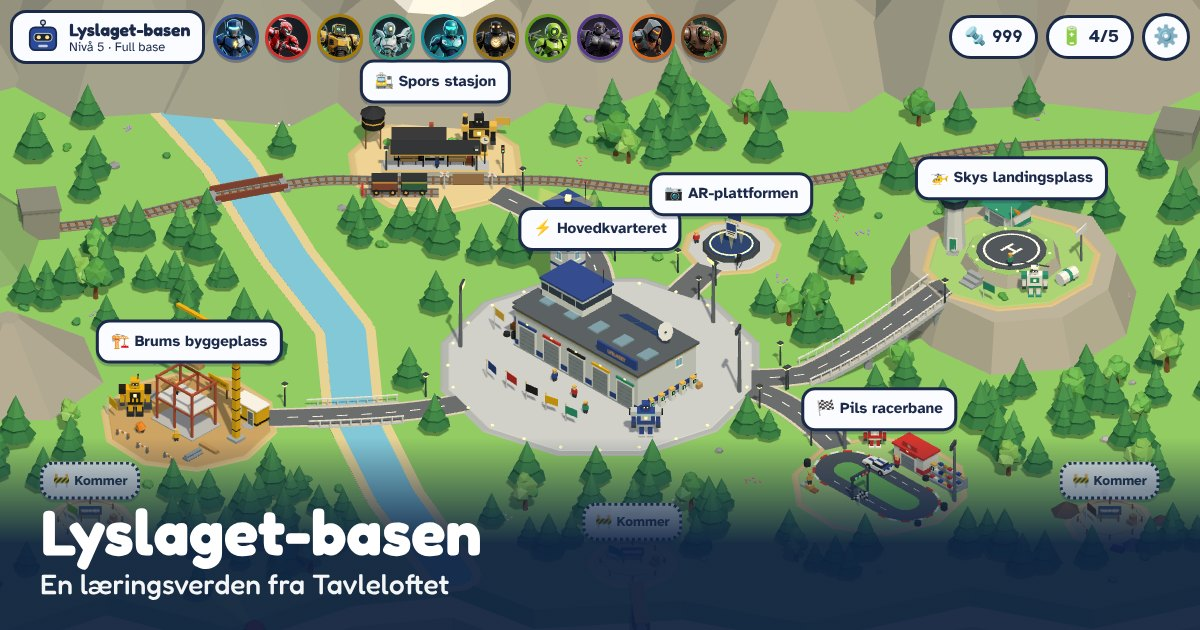
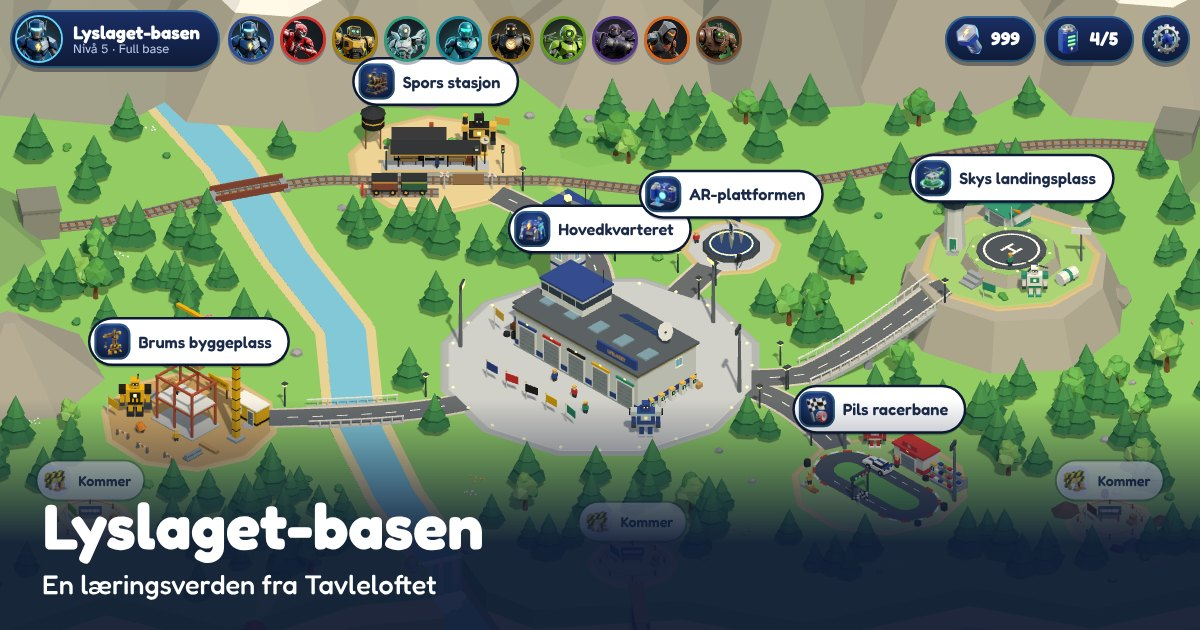
Lyslaget-basen: nye menyer, Higgsfield-ikoner, ekte robotbilder og elv som renner ut i sjøen
- Menyene er bygd om: mørk blå topp, store oppgavekort, tydelig bygg ut-knapp
- 17 ikoner i basen/ikon erstatter emoji i menyer, merkelapper og tellere
- Volt og de andre robotene vises med ekte bilder
- Utrykning vises som låst kort i hovedkvarteret til Pil har flyttet inn
- Elva ender i en foss ned i en vik i kysten
- Nytt delingsbilde (del.jpg)

Claude-Session: https://claude.ai/code/session_014BdYta3zDrASdwr9HgxSn1

diff --git a/lyslaget/basen.html b/lyslaget/basen.html
@@ -141,6 +141,79 @@ header .luft{flex:1}
 @keyframes opp{from{opacity:0;transform:translateY(8px)}20%{opacity:1}to{opacity:0;transform:translateY(-6px)}}
 #laster{position:fixed;left:50%;top:50%;transform:translate(-50%,-50%);font-family:Fredoka,sans-serif;font-size:1.3rem;z-index:1}
 @media (prefers-reduced-motion:no-preference){.dialog{animation:inn .18s ease-out}@keyframes inn{from{transform:translateY(12px);opacity:0}}}
+/* ===== Nytt utseende på menyene (november 2026): mørk blå «robotflate», ekte bilder og egne ikoner ===== */
+:root{--natt:#0e1a36;--natt2:#1b2f66;--lys:#5fd4ff;--flate:#f1f4fb}
+.ikon{width:1.3em;height:1.3em;object-fit:contain;vertical-align:-.3em;flex:none}
+span.ikon.tegn{width:auto;height:auto;vertical-align:0}
+.flis{display:grid;place-items:center;flex:none;width:62px;height:62px;border-radius:18px;background:radial-gradient(circle at 50% 30%,#2a4a94,#0e1a36 78%);box-shadow:inset 0 0 0 2px rgba(95,212,255,.28)}
+.flis .ikon{width:80%;height:80%;vertical-align:0}
+.flis span.ikon.tegn{width:auto;height:auto;font-size:1.9rem;line-height:1}
+.flis.liten{width:36px;height:36px;border-radius:11px}
+.flis.liten span.ikon.tegn{font-size:1.15rem}
+.flis.stor{width:72px;height:72px;border-radius:20px}
+.pris{display:inline-flex;align-items:center;gap:3px;font-family:Fredoka,sans-serif;font-weight:700;white-space:nowrap;vertical-align:middle}
+.pris .ikon{width:1.35em;height:1.35em;vertical-align:0}
+/* Topplinja */
+.skilt,.brikke,#gir{background:linear-gradient(180deg,var(--natt2),var(--natt));color:#fff;border:0;box-shadow:0 4px 0 rgba(8,16,38,.4),inset 0 0 0 2px rgba(95,212,255,.32)}
+.skilt{border-radius:999px;padding:5px 20px 5px 5px;gap:10px}
+.skilt img.volt{width:48px;height:48px;border-radius:50%;object-fit:cover;border:2px solid var(--lys);display:block;flex:none}
+.skilt .navn{font-size:1.15rem}
+.skilt .under{color:#b9c8ea}
+.brikke{display:inline-flex;align-items:center;gap:6px;padding:6px 16px 6px 8px;font-family:Fredoka,sans-serif;font-size:1.15rem;min-height:46px}
+.brikke .ikon{width:32px;height:32px;vertical-align:0}
+#gir{display:grid;place-items:center;height:48px;font-size:1.3rem}
+#gir .ikon{width:32px;height:32px;vertical-align:0}
+/* Merkelappene i verdenen */
+#tags button{display:inline-flex;align-items:center;gap:8px;background:#fff;border:0;border-radius:999px;padding:4px 16px 4px 4px;font-family:Fredoka,sans-serif;font-weight:600;font-size:1.02rem;box-shadow:0 4px 0 rgba(8,16,38,.3),0 0 0 2.5px var(--natt)}
+#tags button.last{background:linear-gradient(180deg,var(--natt2),var(--natt));color:#fff;border-style:none;box-shadow:0 4px 0 rgba(8,16,38,.3),inset 0 0 0 2px rgba(95,212,255,.32)}
+#tags button.last .flis{background:none;box-shadow:none}
+#tags button.kommer{background:rgba(255,255,255,.82);border-style:none;box-shadow:0 0 0 2px rgba(14,26,54,.35);padding:3px 12px 3px 3px;font-size:.9rem}
+#tags button.kommer .flis{background:#dfe5f2;box-shadow:none;width:30px;height:30px}
+@media(max-width:600px){#tags:not(.liste) button{padding:4px;font-size:1rem}#tags:not(.liste) button.last{padding:4px 12px 4px 4px}}
+#tags.liste button{justify-content:flex-start}
+/* Panelet */
+#panel{background:var(--flate);border:0;padding:0;box-shadow:0 0 0 3px var(--natt),0 -8px 30px rgba(8,16,38,.35)}
+@media(min-width:800px){#panel{border-bottom:0;width:430px;box-shadow:0 0 0 3px var(--natt),0 12px 34px rgba(8,16,38,.4)}}
+.phode{position:sticky;top:0;z-index:2;display:flex;gap:12px;align-items:center;padding:12px 12px 12px 14px;background:linear-gradient(135deg,var(--natt2),var(--natt));color:#fff}
+.phode h2{margin:0;color:#fff;font-size:1.5rem}
+.phode .under{display:block;font-size:.92rem;color:#c3d0ee;margin-top:2px}
+.phode .midt{flex:1;min-width:0}
+.phode .x{flex:none;width:48px;height:48px;min-height:48px;border-radius:50%;padding:0;background:rgba(255,255,255,.16);font-size:1.35rem}
+.pkropp{padding:14px 14px 22px}
+.pkropp .del{border-top:0;padding-top:0;margin-top:20px}
+.pkropp .del>h3{font-size:.86rem;letter-spacing:.09em;text-transform:uppercase;color:var(--dus);margin:0 0 8px 4px}
+.stasjoner{display:grid;gap:10px}
+.stasjon,.rkort{display:flex;align-items:center;gap:12px;width:100%;text-align:left;background:#fff;color:var(--ink);border:0;border-radius:20px;padding:9px 12px 9px 9px;min-height:80px;font-weight:400;box-shadow:0 4px 0 #c9d3e8,0 0 0 2px #dbe2f1;transition:transform .08s}
+button.stasjon:active,button.rkort:active{transform:translateY(3px);box-shadow:0 1px 0 #c9d3e8,0 0 0 2px #dbe2f1}
+.stasjon .tekst,.rkort .tekst{flex:1;min-width:0;display:block}
+.stasjon .navn{display:block;font-family:Fredoka,sans-serif;font-weight:600;font-size:1.22rem;line-height:1.15}
+.stasjon small{display:block;font-weight:400;color:var(--dus);font-size:.88rem;line-height:1.25;margin-top:1px}
+.stasjon small.status{margin-top:4px;color:#1d5c33;font-weight:700}
+.stasjon small.status.las{color:var(--dus);display:flex;align-items:center;gap:4px}
+.stasjon small.status.las .ikon{width:1.5em;height:1.5em}
+.gaa{flex:none;font-family:Fredoka,sans-serif;font-size:2rem;line-height:1;color:var(--hoved);padding:0 2px 4px}
+.stasjon.last{background:#e7ebf5;box-shadow:0 0 0 2px #d5dcec;min-height:72px}
+.stasjon.last .flis{opacity:.75;filter:saturate(.5)}
+.rkort{border-left:0;margin-bottom:0;box-shadow:0 4px 0 #c9d3e8,0 0 0 2px #dbe2f1,inset 7px 0 0 var(--c);padding-left:16px}
+.rkort img,.rkort svg{width:66px;height:66px;border-radius:50%;object-fit:cover;border:3px solid var(--c);background:#1b2230;flex:none}
+.rkort strong{display:block;font-size:1.3rem;line-height:1.1}
+.rkort .blirtil{display:block;font-size:.95rem}
+.rkort .liten{display:block;margin-top:2px}
+.bygg{background:#fff;border-radius:20px;padding:14px;box-shadow:0 0 0 2px #dbe2f1}
+.bygg p:last-child{margin-bottom:0}
+.bygg .neste{background:var(--flate);border-radius:12px;padding:8px 12px;font-size:.95rem}
+.kjop{display:flex;justify-content:center;align-items:center;gap:6px;width:100%;min-height:58px;font-family:Fredoka,sans-serif;font-size:1.2rem;font-weight:600;background:var(--gull);color:#3a2a00;box-shadow:0 4px 0 #b98a17}
+.kjop:active{transform:translateY(3px);box-shadow:0 1px 0 #b98a17}
+.kjop:disabled{background:#cfd5e2;color:#5b6680;box-shadow:0 4px 0 #b3bbcc}
+.kjop .pris{background:rgba(58,42,0,.14);border-radius:999px;padding:2px 12px 2px 6px;margin-left:6px}
+.kjop:disabled .pris .ikon{filter:grayscale(1);opacity:.7}
+.mangler{margin:10px 0 0;text-align:center}
+.bred{display:flex;justify-content:center;align-items:center;gap:8px;width:100%;min-height:54px;background:#fff;box-shadow:0 4px 0 #c9d3e8,0 0 0 2px #dbe2f1}
+.bred .ikon{width:34px;height:34px;vertical-align:0}
+.pkropp .linje{background:#fff;border:0;border-radius:14px;padding:6px 10px 6px 6px;margin-bottom:6px;box-shadow:0 0 0 2px #dbe2f1}
+.nivaa i{width:22px;height:9px;border-radius:5px}
+.dialog .helt{display:block;width:calc(100% + 44px);max-width:none;margin:-22px -22px 16px;aspect-ratio:900/520;object-fit:cover;object-position:50% 30%;border-radius:22px 22px 0 0}
+.sidetopp .brikke{min-height:44px}
 </style>
 </head>
 <body>
@@ -229,16 +302,16 @@ var TRINN = {
    Uten noen av delene vises en prøveoppgave. */
 var STASJONER = {
   hk:   [{id:'benk',  ik:'🔧', navn:'Arbeidsbenken', fag:'Verkstedet: ukas jobber i matte', side:'verksted.html'},
-         {id:'plan',  ik:'💛', navn:'Vennekroken',   fag:'Venner og følelser', oppg:'venner'},
+         {id:'plan',  ik:'💛', b:'venner', navn:'Vennekroken',   fag:'Venner og følelser', oppg:'venner'},
          {id:'kikk',  ik:'🔭', navn:'Kikkerten',     fag:'Jeg ser: skriv fem setninger', oppg:'jegser'}],
   pil:  [{id:'start', ik:'🚦', navn:'Startstreken',  fag:'Utrykning: matte, lesing og skriving', side:'utrykning.html'},
          {id:'depot', ik:'🛞', navn:'Depotet',       fag:'Fag 2 (f.eks. gangetabellen)'}],
   spor: [{id:'rute',  ik:'🕒', navn:'Rutetavla',     fag:'Lær klokka sammen med Spor', side:'klokka.html'},
          {id:'luke',  ik:'🎫', navn:'Billettluka',   fag:'Fag 2 (f.eks. penger)'}],
-  brum: [{id:'pause', ik:'💛', navn:'Pausebrakka',   fag:'Venner og følelser', oppg:'venner'},
+  brum: [{id:'pause', ik:'💛', b:'venner', navn:'Pausebrakka',   fag:'Venner og følelser', oppg:'venner'},
          {id:'tegn',  ik:'📐', navn:'Tegnebordet',   fag:'Fag 1 (f.eks. måling og former)'},
          {id:'lager', ik:'🧱', navn:'Materiallageret', fag:'Fag 2 (f.eks. pluss og minus)'}],
-  sky:  [{id:'utkikk',ik:'🔭', navn:'Utkikken',      fag:'Jeg ser: skriv fem setninger', oppg:'jegser'},
+  sky:  [{id:'utkikk',ik:'🔭', b:'kikk', navn:'Utkikken',      fag:'Jeg ser: skriv fem setninger', oppg:'jegser'},
          {id:'vaer',  ik:'🌦', navn:'Værstasjonen',  fag:'Fag 2 (f.eks. tabeller og tall)'}]
 };
 /* Stasjoner uten «side» og uten «oppg» har bare en prøveoppgave. De er skjult for eleven.
@@ -337,10 +410,17 @@ function fjes(id,str){
     '<rect x="8" y="14" width="44" height="38" rx="9" fill="'+r.c1+'" stroke="'+i+'" stroke-width="3"/><rect x="15" y="24" width="30" height="13" rx="5" fill="#1b2430" stroke="'+r.c2+'" stroke-width="1.5"/>'+
     '<circle cx="23" cy="30.5" r="3.4" fill="#ffe27a"/><circle cx="37" cy="30.5" r="3.4" fill="#ffe27a"/><rect x="22" y="43" width="16" height="4" rx="2" fill="'+r.c2+'"/></svg>';
 }
+/* Ikonene er laget i Higgsfield og ligger i basen/ikon/ (ett bilde per ikon, gjennomsiktig bakgrunn).
+   Mangler et bilde, vises tegnet i stedet – så nye stasjoner virker før ikonet er laget. */
+function ikon(navn, tegn){return '<img class="ikon" src="basen/ikon/'+navn+'.webp" alt="" data-tegn="'+tegn+'" onerror="ikonFeil(this)">'}
+function ikonFeil(el){var s = document.createElement('span'); s.className = 'ikon tegn'; s.setAttribute('aria-hidden','true'); s.textContent = el.getAttribute('data-tegn'); el.replaceWith(s)}
+function pris(p){return '<span class="pris">'+ikon('skrue','🔩')+p+'</span>'}
 function nivaa(n,maks){var s='<span class="nivaa" role="img" aria-label="Trinn '+n+' av '+maks+'">';for(var i=0;i<maks;i++)s+='<i class="'+(i<n?'pa':'')+'"></i>';return s+'</span>'}
-function robotKort(id){
+function robotKort(id){   // ekte bilde av roboten. Trykk på kortet for å se hele robotkortet.
   var r = ROBOTER[id];
-  return '<div class="rkort" style="--c:'+(r.c1==='#ffffff'?r.c2:r.c1)+'">'+fjes(id)+'<div><strong>'+r.navn+'</strong> blir til '+r.blir+'<br><span class="liten">«'+esc(r.sier)+'» Liker '+esc(r.liker)+'.</span></div></div>';
+  return '<button type="button" class="rkort" data-kort="'+id+'" style="--c:'+r.ring+'" aria-label="'+r.navn+'. Vis robotkortet.">'+
+    '<img src="media/ansikt/'+id+'.jpg" alt="" onerror="this.outerHTML=fjes(\''+id+'\',66)">'+
+    '<span class="tekst"><strong>'+r.navn+'</strong><span class="blirtil">blir til '+r.blir+'</span><span class="liten">«'+esc(r.sier)+'»</span></span><span class="gaa" aria-hidden="true">›</span></button>';
 }
 function ansikt(id){
   var r = ROBOTER[id];
@@ -353,7 +433,7 @@ function visKort(id){
   var forrige = ROBOTER[REKKE[(aktivtKort+n-1)%n]], neste = ROBOTER[REKKE[(aktivtKort+1)%n]];
   var prikker = function(a, tittel){var h = '<span class="prikker" role="img" aria-label="'+tittel+': '+a+' av 5">'; for(var i=1;i<=5;i++) h += '<i class="'+(i<=a?'p':'')+'"></i>'; return h+'</span>'};
   var sted = OMRADER.filter(function(o){return o.robot===id})[0], hit = '';
-  if(S && sted && !sted.kommer) hit = '<button class="hit" data-omr="'+sted.id+'">'+sted.ik+' Gå til '+sted.navn+'</button>';
+  if(S && sted && !sted.kommer) hit = '<button class="hit" data-omr="'+sted.id+'">Gå til '+sted.navn+'</button>';
   else if(sted && sted.kommer) hit = '<p class="liten" style="margin-top:12px">'+sted.navn+' kommer senere.</p>';
   else if(r.lag==='Rust-gjengen') hit = '<p class="liten" style="margin-top:12px">Rust-gjengen kan flytte inn på skrotplassen senere.</p>';
   dlg.innerHTML = '<div class="kort" style="--k:'+r.k+';--kt:'+r.kt+';--kp:'+r.kp+'">'+
@@ -374,7 +454,7 @@ function lukkKort(){var dlg = document.getElementById('kortdlg'); if(dlg.open) d
 var sideTimer = null;
 function apneSide(url, tittel, kamera){
   var l = document.getElementById('side');
-  l.innerHTML = '<div class="sidetopp"><button data-a="lukkside">← Tilbake til basen</button><strong>'+esc(tittel)+'</strong><span class="luft"></span><span class="brikke" id="sideskruer">🔩 '+S.skruer+'</span></div>'+
+  l.innerHTML = '<div class="sidetopp"><button data-a="lukkside">← Tilbake til basen</button><strong>'+esc(tittel)+'</strong><span class="luft"></span><span class="brikke" id="sideskruer">'+ikon('skrue','🔩')+S.skruer+'</span></div>'+
     '<iframe src="'+url+'" title="'+esc(tittel)+'"'+(kamera?' allow="camera; microphone; gyroscope; accelerometer"':'')+'></iframe>';
   l.className = 'apen';
   var f = l.querySelector('iframe'), forste = true;
@@ -384,87 +464,102 @@ function apneSide(url, tittel, kamera){
 }
 function oppdaterSide(){
   var fikk = sjekkJobber(), el = document.getElementById('sideskruer'); if(!fikk || !el) return;
-  el.innerHTML = '🔩 '+S.skruer+'<b>+'+fikk+'</b>'; el.classList.add('hopp'); setTimeout(function(){el.classList.remove('hopp')}, 500);
+  el.innerHTML = ikon('skrue','🔩')+S.skruer+'<b>+'+fikk+'</b>'; el.classList.add('hopp'); setTimeout(function(){el.classList.remove('hopp')}, 500);
 }
 function lukkSide(){clearInterval(sideTimer); sideTimer = null; sjekkJobber(); var l = document.getElementById('side'); l.className = ''; l.innerHTML = ''; tegn()}
 
+/* Ett kort per oppgavestasjon. last = 1: stasjonen ligger hos en robot som ikke har flyttet inn (kortet tar deg dit).
+   last = 2: samme, men vist inne på området selv (bare til å se på). */
+function stasjonKort(o, st, last){
+  var flis = '<span class="flis">'+ikon(st.b||st.id, st.ik)+'</span>', tekst = '<span class="navn">'+st.navn+'</span><small>'+st.fag+'</small>';
+  if(last){
+    var inn = flis+'<span class="tekst">'+tekst+'<small class="status las">'+ikon('las','🔒')+'Åpner når '+ROBOTER[o.robot].navn+' flytter inn</small></span>';
+    return last===2 ? '<div class="stasjon last">'+inn+'</div>' : '<button class="stasjon last" data-omr="'+o.id+'">'+inn+'<span class="gaa" aria-hidden="true">›</span></button>';
+  }
+  var under = st.oppg && window.LysOppgaver ? LysOppgaver.under(st) : '';
+  return '<button class="stasjon" data-stasjon="'+o.id+':'+st.id+'">'+flis+'<span class="tekst">'+tekst+(under?'<small class="status">'+esc(under)+'</small>':'')+'</span><span class="gaa" aria-hidden="true">›</span></button>';
+}
 function stasjonsKnapper(o){
   var liste = synlige(o.id), grunn = OPPSETT.skruerPerOppgave + bonus(o.id);
   if(!liste.length) return '<p class="liten">Oppgavene her kommer senere.</p>';
-  return '<div class="grid">'+liste.map(function(st){
-    var under = st.oppg && window.LysOppgaver ? LysOppgaver.under(st) : '';
-    return '<button class="stasjon" data-stasjon="'+o.id+':'+st.id+'"><span class="ik">'+st.ik+'</span>'+st.navn+'<small>'+st.fag+'</small>'+(under?'<small class="status">'+esc(under)+'</small>':'')+'</button>'}).join('')+'</div>'+
-    '<p class="liten" style="margin-top:8px">Hver riktig oppgave her gir 🔩 '+grunn+' skruer.'+
-      (liste.some(function(st){return st.oppg==='jegser'}) ? ' Et godkjent «Jeg ser»-bilde gir 🔩 '+(15+bonus(o.id))+'.' : '')+'</p>';
+  return '<div class="stasjoner">'+liste.map(function(st){return stasjonKort(o, st)}).join('')+'</div>'+
+    '<p class="liten" style="margin:10px 4px 0">Hver riktig oppgave her gir '+pris(grunn)+' skruer.'+
+      (liste.some(function(st){return st.oppg==='jegser'}) ? ' Et godkjent «Jeg ser»-bilde gir '+pris(15+bonus(o.id))+'.' : '')+'</p>';
+}
+function andreStasjoner(){   // vises i hovedkvarteret: oppgaver som venter hos roboter som ikke har flyttet inn ennå
+  var h = robotomr().filter(function(a){return S.omr[a.id] < 2}).map(function(a){return synlige(a.id).map(function(st){return stasjonKort(a, st, 1)}).join('')}).join('');
+  return h ? '<div class="del"><h3>Flere oppgaver hos robotene</h3><div class="stasjoner">'+h+'</div></div>' : '';
 }
 function formKnapp(o){
   var r = ROBOTER[o.robot];
-  return '<button class="sek" data-form="'+o.id+'">🔁 '+(S.form[o.id] ? 'Forvandle tilbake til robot' : 'Forvandle til '+r.blir)+'</button>';
+  return '<button class="sek bred" data-form="'+o.id+'">'+ikon('forvandle','🔁')+(S.form[o.id] ? 'Forvandle tilbake til robot' : 'Forvandle til '+r.blir)+'</button>';
 }
+function mangler(p){return S.skruer<p ? '<p class="liten mangler">Du mangler '+(p-S.skruer)+' skruer. Løs oppgaver for å tjene flere.</p>' : ''}
 
 /* ---------- Topplinje og merkelapper ---------- */
 function tegnTopp(){
-  document.getElementById('toppv').innerHTML = '<div class="skilt">'+fjes('volt',36)+
+  document.getElementById('toppv').innerHTML = '<div class="skilt"><img class="volt" src="media/ansikt/volt.jpg" alt="" onerror="this.outerHTML=fjes(\'volt\',40)">'+
     '<span class="navn">Lyslaget-basen<span class="under">Nivå '+S.hk+' · '+HK[S.hk-1].navn+'</span></span></div>';
-  document.getElementById('topph').innerHTML = '<span class="brikke" title="Skruer">🔩 '+S.skruer+'</span><span class="brikke" title="Ladeplasser i bruk">🔋 '+antallEid()+'/'+S.hk+'</span>'+
-    '<button id="gir" data-a="voksen" aria-label="Voksenmeny">⚙</button>';
+  document.getElementById('topph').innerHTML = '<span class="brikke" title="Skruer">'+ikon('skrue','🔩')+S.skruer+'</span><span class="brikke" title="Ladeplasser i bruk">'+ikon('lader','🔋')+antallEid()+'/'+S.hk+'</span>'+
+    '<button id="gir" data-a="voksen" aria-label="Voksenmeny">'+ikon('tannhjul','⚙')+'</button>';
 }
 function tegnTags(){
   document.getElementById('tags').innerHTML = OMRADER.map(function(o){
-    if(o.kommer) return '<button class="kommer" data-omr="'+o.id+'" aria-label="'+o.navn+', kommer senere">🚧<span class="t"> Kommer</span></button>';
-    return eier(o.id) ? '<button data-omr="'+o.id+'" aria-label="'+o.navn+'">'+o.ik+'<span class="t"> '+o.navn+'</span></button>'
-                      : '<button class="last" data-omr="'+o.id+'" aria-label="'+o.navn+', til salgs for '+PRIS.omr[0]+' skruer">🔒<span class="t"> Til salgs ·</span> 🔩'+PRIS.omr[0]+'</button>'}).join('');
+    if(o.kommer) return '<button class="kommer" data-omr="'+o.id+'" aria-label="'+o.navn+', kommer senere"><span class="flis liten">'+ikon('kommer','🚧')+'</span><span class="t">Kommer</span></button>';
+    return eier(o.id) ? '<button data-omr="'+o.id+'" aria-label="'+o.navn+'"><span class="flis liten">'+ikon(o.id,o.ik)+'</span><span class="t">'+o.navn+'</span></button>'
+                      : '<button class="last" data-omr="'+o.id+'" aria-label="'+o.navn+', til salgs for '+PRIS.omr[0]+' skruer"><span class="flis liten">'+ikon('las','🔒')+'</span><span class="t">Til salgs</span>'+pris(PRIS.omr[0])+'</button>'}).join('');
 }
 
-/* ---------- Panelet for hvert område ---------- */
+/* ---------- Panelet for hvert område ----------
+   Hver panel-funksjon gir [linja under navnet i toppfeltet, innholdet]. */
 function panelHK(o){
   var n = S.hk, p = PRIS.hk[n-1], h = robotKort('volt');
-  h += '<p><strong>Nivå '+n+' av 5: '+HK[n-1].navn+'.</strong> '+nivaa(n,5)+'<br><span class="liten">'+HK[n-1].hva+'</span></p>';
-  if(n<5) h += '<button data-hk="1"'+(S.skruer<p?' disabled':'')+'>Bygg ut til «'+HK[n].navn+'» 🔩'+p+'</button>'+
-    '<p class="liten" style="margin-top:8px">Du får: '+HK[n].hva+(S.skruer<p?' Du mangler '+(p-S.skruer)+' skruer.':'')+'</p>';
-  else h += '<span class="merke">Ferdig utbygd</span>';
-  h += '<div class="rad" style="margin-top:10px">'+formKnapp(o)+'</div>';
-  h += '<div class="del"><h3>Oppgaver</h3>'+stasjonsKnapper(o)+'</div>';
-  h += '<div class="del"><h3>Ladeplasser</h3><p class="liten">Hovedkvarteret har '+n+' '+(n===1?'ladeplass':'ladeplasser')+'. Hvert robotområde trenger én. Bygg ut hovedkvarteret for å få flere.</p>'+
+  h += '<div class="del"><h3>Oppgaver</h3>'+stasjonsKnapper(o)+'</div>'+andreStasjoner();
+  h += '<div class="del"><h3>Bygg ut hovedkvarteret</h3><div class="bygg"><p><strong>Nivå '+n+' av 5: '+HK[n-1].navn+'</strong> '+nivaa(n,5)+'<br><span class="liten">'+HK[n-1].hva+'</span></p>'+
+    (n<5 ? '<p class="neste"><strong>Neste: '+HK[n].navn+'.</strong> '+HK[n].hva+'</p><button class="kjop" data-hk="1"'+(S.skruer<p?' disabled':'')+'>Bygg ut'+pris(p)+'</button>'+mangler(p)
+         : '<span class="merke">Ferdig utbygd</span>')+'</div>'+
+    '<div style="margin-top:10px">'+formKnapp(o)+'</div></div>';
+  h += '<div class="del"><h3>Ladeplasser</h3><p class="liten" style="margin:0 4px 8px">Hovedkvarteret har '+n+' '+(n===1?'ladeplass':'ladeplasser')+'. Hvert robotområde trenger én. Bygg ut hovedkvarteret for å få flere.</p>'+
     robotomr().map(function(a){var k = S.omr[a.id];
-      return '<div class="linje"><span class="voks">'+a.ik+' '+a.navn+'</span>'+(k>=2?'<span class="merke">'+ROBOTER[a.robot].navn+' er på plass</span>':k===1?'<span class="merke vent">Bygd, venter på robot</span>':'<span class="merke vent">Ikke bygd</span>')+'</div>'}).join('')+'</div>';
-  h += '<div class="del"><h3>Kommer senere</h3><p class="liten">❓ Ukens robotquiz · 📖 Bøkene om Lyslaget · flere roboter på de ledige tomtene</p></div>';
-  return h;
+      return '<div class="linje"><span class="flis liten">'+ikon(a.id,a.ik)+'</span><span class="voks">'+a.navn+'</span>'+(k>=2?'<span class="merke">'+ROBOTER[a.robot].navn+' er på plass</span>':k===1?'<span class="merke vent">Bygd, venter på robot</span>':'<span class="merke vent">Ikke bygd</span>')+'</div>'}).join('')+'</div>';
+  h += '<div class="del"><h3>Kommer senere</h3><p class="liten" style="margin:0 4px">Ukens robotquiz · Bøkene om Lyslaget · flere roboter på de ledige tomtene</p></div>';
+  return ['Nivå '+n+' av 5 · '+HK[n-1].navn, h];
 }
 function panelOmr(o){
   var n = S.omr[o.id], r = ROBOTER[o.robot], p = PRIS.omr[n], t = TRINN[o.id], h = '';
+  var venter = function(){var l = synlige(o.id); return l.length ? '<div class="del"><h3>Oppgaver som venter her</h3><div class="stasjoner">'+l.map(function(st){return stasjonKort(o, st, 2)}).join('')+'</div></div>' : ''};
   if(n===0){
     var full = ledigePlasser()<1;
-    return '<p><strong>Til salgs.</strong> '+o.om+'</p><p class="liten">Du får: '+t[0]+'.</p><p class="stort">🔩 '+p+'</p>'+
-      '<button data-bygg="'+o.id+'"'+(S.skruer<p||full?' disabled':'')+'>Bygg området</button>'+
-      (full ? '<p class="liten" style="margin-top:8px">Hovedkvarteret har ingen ledig ladeplass. Bygg ut hovedkvarteret først.</p>'
-            : S.skruer<p ? '<p class="liten" style="margin-top:8px">Du mangler '+(p-S.skruer)+' skruer. Løs oppgaver i hovedkvarteret.</p>' : '');
+    return ['Til salgs', '<div class="bygg"><p>'+o.om+'</p><p class="neste"><strong>Du får:</strong> '+t[0]+'.</p>'+
+      '<button class="kjop" data-bygg="'+o.id+'"'+(S.skruer<p||full?' disabled':'')+'>Bygg området'+pris(p)+'</button>'+
+      (full ? '<p class="liten mangler">Hovedkvarteret har ingen ledig ladeplass. Bygg ut hovedkvarteret først.</p>' : mangler(p))+'</div>'+venter()];
   }
   if(n===1){
-    return '<p><strong>Området er bygd,</strong> men '+r.navn+' har ikke flyttet inn ennå.</p>'+robotKort(o.robot)+
-      '<button class="gull" data-bygg="'+o.id+'"'+(S.skruer<p?' disabled':'')+'>Kall inn '+r.navn+' 🔩'+p+'</button>'+
-      (S.skruer<p?'<p class="liten" style="margin-top:8px">Du mangler '+(p-S.skruer)+' skruer.</p>':'')+
-      '<p class="liten" style="margin-top:8px">Oppgavene her åpner når '+r.navn+' er på plass.</p>';
+    return ['Bygd – venter på '+r.navn, robotKort(o.robot)+'<div class="bygg" style="margin-top:12px"><p><strong>Området er bygd,</strong> men '+r.navn+' har ikke flyttet inn ennå. Oppgavene åpner når '+r.navn+' er på plass.</p>'+
+      '<button class="kjop" data-bygg="'+o.id+'"'+(S.skruer<p?' disabled':'')+'>Kall inn '+r.navn+pris(p)+'</button>'+mangler(p)+'</div>'+venter()];
   }
-  h += robotKort(o.robot)+'<div class="rad">'+formKnapp(o)+'</div>';
+  h += robotKort(o.robot);
   h += '<div class="del"><h3>Oppgaver hos '+r.navn+'</h3>'+stasjonsKnapper(o)+'</div>';
-  h += '<div class="del"><h3>Bygg ut</h3><div class="linje"><span class="voks"><strong>'+o.navn+'</strong> '+nivaa(n,4)+'<br><span class="liten">'+(n<4?'Neste: '+t[n]+'. Gir én skrue ekstra per oppgave her.':'Alt er bygd.')+'</span></span>'+
-    (n>=4?'<span class="merke">Ferdig</span>':'<button data-bygg="'+o.id+'"'+(S.skruer<p?' disabled':'')+'>Bygg ut 🔩'+p+'</button>')+'</div></div>';
-  return h;
+  h += '<div class="del"><h3>Bygg ut området</h3><div class="bygg"><p><strong>Trinn '+n+' av 4</strong> '+nivaa(n,4)+'</p>'+
+    (n<4 ? '<p class="neste"><strong>Neste:</strong> '+t[n]+'. Gir én skrue ekstra per oppgave her.</p><button class="kjop" data-bygg="'+o.id+'"'+(S.skruer<p?' disabled':'')+'>Bygg ut'+pris(p)+'</button>'+mangler(p)
+         : '<span class="merke">Alt er bygd</span>')+'</div>'+
+    '<div style="margin-top:10px">'+formKnapp(o)+'</div></div>';
+  return [r.navn+' bor her · trinn '+n+' av 4', h];
 }
 function panelFri(o){
-  return '<p>'+o.om+'</p><button class="gull" data-side="'+o.id+'">📷 Start kameraet</button>'+
-    '<p class="liten" style="margin-top:10px">iPaden spør om lov til å bruke kameraet. Bildet blir på iPaden og sendes ikke noe sted.</p>'+
-    '<div class="del"><h3>Mangler du robotkort?</h3><p class="liten">Kortene kan skrives ut.</p><a href="robotkort/Robotkort-utskrift.pdf" target="_blank" rel="noopener">Åpne robotkortene til utskrift</a></div>'+
-    '<div class="del"><h3>Robotene</h3><p class="liten">Trykk på en robot for å se kortet.</p><div class="lag">'+REKKE.map(ansikt).join('')+'</div></div>';
+  return ['Åpent for alle', '<div class="bygg"><p>'+o.om+'</p><button class="kjop" data-side="'+o.id+'">Start kameraet</button>'+
+    '<p class="liten mangler">iPaden spør om lov til å bruke kameraet. Bildet blir på iPaden og sendes ikke noe sted.</p></div>'+
+    '<div class="del"><h3>Mangler du robotkort?</h3><p class="liten" style="margin:0 4px">Kortene kan skrives ut. <a href="robotkort/Robotkort-utskrift.pdf" target="_blank" rel="noopener">Åpne robotkortene til utskrift</a></p></div>'+
+    '<div class="del"><h3>Robotene</h3><p class="liten" style="margin:0 4px 8px">Trykk på en robot for å se kortet.</p><div class="lag">'+REKKE.map(ansikt).join('')+'</div></div>'];
 }
 function tegnPanel(){
   var p = document.getElementById('panel');
   if(!apen){p.className=''; p.innerHTML=''; return}
-  var o = omr(apen), topp = '<div class="rad" style="margin-bottom:8px"><h2 style="flex:1;margin:0">'+o.ik+' '+o.navn+'</h2><button class="sek" data-a="tilbake">✕ Lukk</button></div>';
+  var o = omr(apen), d = o.kommer ? ['Kommer senere', '<div class="bygg"><p>'+o.om+'</p><p class="liten">Tomta er satt av. Når området er laget, kan det kjøpes på samme måte som de andre.</p></div>'+(o.robot?'<div style="margin-top:12px">'+robotKort(o.robot)+'</div>':'')]
+    : o.fri ? panelFri(o) : o.id==='hk' ? panelHK(o) : panelOmr(o);
   p.className = 'apen';
-  p.innerHTML = topp + (o.kommer ? '<p><strong>Kommer senere.</strong> '+o.om+'</p>'+(o.robot?robotKort(o.robot):'')+'<p class="liten">Tomta er satt av. Når området er laget, kan det kjøpes på samme måte som de andre.</p>'
-    : o.fri ? panelFri(o) : o.id==='hk' ? panelHK(o) : panelOmr(o));
+  p.innerHTML = '<div class="phode"><span class="flis stor">'+ikon(o.kommer?'kommer':o.id, o.ik)+'</span><div class="midt"><h2>'+o.navn+'</h2><span class="under">'+d[0]+'</span></div>'+
+    '<button class="x" data-a="tilbake" aria-label="Lukk">✕</button></div><div class="pkropp">'+d[1]+'</div>';
 }
 function tegn(){tegnTopp(); tegnTags(); tegnPanel(); if(window.sync3D) window.sync3D()}
 function apne(id){apen = id; tegnPanel(); document.getElementById('panel').scrollTop = 0; if(window.fokus3D) window.fokus3D(id)}
@@ -478,12 +573,12 @@ function dialog(html, etter){
 }
 function lukk(){document.getElementById('lag').innerHTML=''; tegn()}
 function velkommen(){
-  dialog('<div class="rad" style="margin-bottom:8px">'+fjes('volt',64)+'<h2 style="margin:0">Velkommen, mekaniker!</h2></div>'+
+  dialog('<img class="helt" src="media/kort/volt.jpg" alt="Volt som robot og som buss" onerror="this.remove()">'+
+    '<h2>Velkommen, mekaniker!</h2>'+
     '<p>Lyslaget trenger en base. Du starter med et lite verksted og roboten Volt.</p>'+
     '<p>Løs oppgaver og tjen skruer. Bruk skruene til å bygge ut hovedkvarteret og lage egne områder til robotene.</p>'+
-    '<button data-a="start">Start</button>');
+    '<button class="kjop" data-a="start">Start</button>');
 }
-
 /* ---------- Voksenmenyen ----------
    På Tavleloftet (eleven er logget inn med kode) åpnes menyen med voksenkoden fra velkomstbrevet.
    I den frittstående utgaven åpnes den rett fra tannhjulet. */
@@ -503,9 +598,9 @@ function provVoksenkode(){
 function voksenMeny(){
   var o = window.LysOppgaver ? LysOppgaver.status() : null, inne = !!(window.TL && TL.kode);
   dialog('<h2>Voksenmeny</h2><p>Løste oppgaver totalt: <strong>'+S.oppg+'</strong></p>'+
-    OMRADER.filter(function(a){return !a.kommer && !a.fri}).map(function(a){return '<div class="linje"><span class="voks">'+a.ik+' '+a.navn+'</span><strong>'+(S.lost[a.id]||0)+'</strong></div>'}).join('')+
-    (o ? '<div class="del"><div class="linje"><span class="voks">💛 Venner og følelser</span><strong>Nivå '+o.venner.apnet+' av 3</strong></div>'+
-         '<div class="linje"><span class="voks">🔭 Jeg ser'+(o.jegser.venter?' <span class="merke vent">venter på godkjenning</span>':'')+'</span><strong>'+o.jegser.godkjent+' av '+o.jegser.av+' bilder</strong></div></div>' : '')+
+    OMRADER.filter(function(a){return !a.kommer && !a.fri}).map(function(a){return '<div class="linje"><span class="flis liten">'+ikon(a.id,a.ik)+'</span><span class="voks">'+a.navn+'</span><strong>'+(S.lost[a.id]||0)+'</strong></div>'}).join('')+
+    (o ? '<div class="del"><div class="linje"><span class="flis liten">'+ikon('venner','💛')+'</span><span class="voks">Venner og følelser</span><strong>Nivå '+o.venner.apnet+' av 3</strong></div>'+
+         '<div class="linje"><span class="flis liten">'+ikon('kikk','🔭')+'</span><span class="voks">Jeg ser'+(o.jegser.venter?' <span class="merke vent">venter på godkjenning</span>':'')+'</span><strong>'+o.jegser.godkjent+' av '+o.jegser.av+' bilder</strong></div></div>' : '')+
     '<div id="vtid"></div>'+
     (inne ? '<p style="margin-top:10px"><a href="../rapport.html" target="_blank" rel="noopener">Se rapporten</a> (åpnes med voksenkoden)</p>' : '')+
     '<div class="rad" style="margin-top:14px"><button class="sek" data-a="lukk">Lukk</button>'+(inne ? '<button class="sek" data-a="loggut">Bytt elev (logg ut)</button>' : '')+'<button class="rod" data-a="nullstill">Nullstill spillet</button></div>',
@@ -534,7 +629,7 @@ function klikk(e){
     if(st.side && SIDER) return apneSide(st.side, st.navn);
     if(st.oppg && window.LysOppgaver && LysOppgaver.har(st)) return LysOppgaver.start(st, del[0]);
     return startOppgave(st, function(){var m = belonning(del[0]);
-      dialog('<h2>✅ Riktig!</h2><p class="stort">+'+m+' 🔩</p><p style="text-align:center">Du har nå '+S.skruer+' skruer.</p>'+
+      dialog('<h2>✅ Riktig!</h2><p class="stort">+'+m+' '+ikon('skrue','🔩')+'</p><p style="text-align:center">Du har nå '+S.skruer+' skruer.</p>'+
         '<div class="rad"><button data-stasjon="'+d.stasjon+'">En til</button><button class="sek" data-a="lukk">Ferdig</button></div>');
       tegnTopp();
     })}
@@ -666,8 +761,14 @@ const S2 = Math.SQRT2, UW = (u,w) => [(u+w)/S2, (w-u)/S2], tilUW = (x,z) => [(x-
 const O = id => OMRADER.find(o => o.id===id);
 const KYST = [[-320,72],[-110,66],[-80,62],[-60,50],[-45,57],[-30,48],[-18,46],[-8,53],[10,51],[25,56],[45,48],[60,53],[80,45],[110,42],[320,34]];   // kystlinja
 const kyst = u => { for(let i=1;i<KYST.length;i++) if(u <= KYST[i][0]){ const a = KYST[i-1], b = KYST[i]; return a[1]+(b[1]-a[1])*(u-a[0])/(b[0]-a[0]); } return 34; };
-const ELV = [[-52,-58],[-45,-44],[-38,-24],[-31,-8],[-30,10],[-25,28],[-18,45.5]], ELVB = 5;   // elva fra fjellet til sjøen
+const ELV = [[-52,-58],[-45,-44],[-38,-24],[-31,-8],[-30,10],[-25,28],[-19.3,42.25]], ELVB = 5;   // elva fra fjellet til sjøen. Det siste punktet er kanten der fossen faller ned i vika
 const avstElv = (u,w) => { let m = 1e9; for(let i=1;i<ELV.length;i++){ const a = ELV[i-1], b = ELV[i], dx = b[0]-a[0], dy = b[1]-a[1], t = Math.max(0, Math.min(1, ((u-a[0])*dx+(w-a[1])*dy)/(dx*dx+dy*dy))); m = Math.min(m, Math.hypot(u-a[0]-dx*t, w-a[1]-dy*t)); } return m; };
+/* Elvemunningen: et hakk i kysten, like bredt som elva. Der faller elva ned i sjøen. */
+const MUN = (() => { const a = ELV[ELV.length-2], b = ELV[ELV.length-1], l = Math.hypot(b[0]-a[0], b[1]-a[1]), t = [(b[0]-a[0])/l, (b[1]-a[1])/l], n = [t[1], -t[0]], h = ELVB/2+.1;
+  return { t, v:[b[0]-n[0]*h, b[1]-n[1]*h], h:[b[0]+n[0]*h, b[1]+n[1]*h] }; })();
+function hakk(pts){ const treff = c => { for(let i=1;i<pts.length;i++){ const p = pts[i-1], q = pts[i], ex = q[0]-p[0], ey = q[1]-p[1], d = MUN.t[0]*ey - MUN.t[1]*ex; if(Math.abs(d) < 1e-9) continue;
+      const s = ((p[0]-c[0])*ey - (p[1]-c[1])*ex)/d, r = ((p[0]-c[0])*MUN.t[1] - (p[1]-c[1])*MUN.t[0])/d; if(s > 0 && r >= 0 && r <= 1) return [c[0]+MUN.t[0]*s, c[1]+MUN.t[1]*s]; } return c; };
+  const A = treff(MUN.v), B = treff(MUN.h); return pts.filter(p => p[0] < A[0]).concat([A, MUN.v, MUN.h, B], pts.filter(p => p[0] > B[0])); }
 /* Svingete linjer: en myk kurve gjennom noen punkter, delt opp i korte rette biter */
 function bane(punkter){ const c = new THREE.CatmullRomCurve3(punkter.map(p => new THREE.Vector3(p[0],0,p[1])), false, 'centripetal'), ps = c.getSpacedPoints(Math.ceil(c.getLength()/1.2)); let d = 0;
   const pts = ps.map((p,i) => { if(i) d += p.distanceTo(ps[i-1]); return { x:p.x, z:p.z, d }; }); pts.lengde = d; return pts; }
@@ -685,7 +786,7 @@ const avstBane = (u,w) => { let m = 1e9; for(const p of SKINNER) m = Math.min(m,
 const FJELL = [];
 function flate(pts, topp, tykk, farge){ const s = new THREE.Shape(); pts.forEach((p,i) => { const [x,z] = UW(p[0],p[1]); i ? s.lineTo(x,z) : s.moveTo(x,z); });
   const geo = new THREE.ExtrudeGeometry(s, { depth:tykk, bevelEnabled:false }); geo.rotateX(PI/2); return flat(legg(scene, geo, farge, 0, topp, 0)); }
-function band(pts, bredde, y, farge){ pts.forEach((p,i) => { const [x,z] = UW(p[0],p[1]); flat(cyl(scene,bredde/2,bredde/2,.02,10,farge,x,y,z));
+function band(pts, bredde, y, farge, apen){ pts.forEach((p,i) => { const [x,z] = UW(p[0],p[1]); if(!(apen && i===pts.length-1)) flat(cyl(scene,bredde/2,bredde/2,.02,10,farge,x,y,z));   // apen = ingen rund ende på det siste punktet
   if(i){ const [x0,z0] = UW(pts[i-1][0],pts[i-1][1]); flat(box(scene,Math.hypot(x-x0,z-z0),.02,bredde,farge,(x+x0)/2,y,(z+z0)/2)).rotation.y = -Math.atan2(z-z0,x-x0); } }); }
 function fjell(u, w, r, h, farge, sno){ const [x,z] = UW(u,w), rot = rand()*PI; cyl(scene, r*.12, r, h, 7, farge, x, h/2-.1, z).rotation.y = rot;
   if(sno) flat(cyl(scene, r*.12+.03, r*.42+.03, h*.34, 7, 0xf4f6f8, x, h*.83-.1, z)).rotation.y = rot; FJELL.push({u,w,r}); }
@@ -696,8 +797,14 @@ function blob(x, z, r, o){ o = o||{}; const N = o.n||12, f = []; for(let i=0;i<N
   return flat(legg(scene, geo, o.farge, x, topp-(3+topp)/2, z)); }
 { const hav = legg(scene, new THREE.CylinderGeometry(420,420,.4,28), new THREE.MeshStandardMaterial({color:0x7ecbea,roughness:.35,flatShading:true}), 0, -5, 0); hav.castShadow = hav.receiveShadow = false;
   const bak = [[320,-300],[-320,-300]];
-  flate(KYST.concat(bak), 0, 3, GRESS); flate(KYST.map(p => [p[0], p[1]+4.5]).concat(bak), -2.8, 2.2, 0xe6d6a0);
-  band(ELV, ELVB+2.4, .015, 0xe3d6a2); band(ELV, ELVB, .03, 0x7ecbea);
+  flate(hakk(KYST).concat(bak), 0, 3, GRESS); flate(hakk(KYST.map(p => [p[0], p[1]+4.5])).concat(bak), -2.8, 2.2, 0xe6d6a0);
+  band(ELV, ELVB+2.4, .015, 0xe3d6a2, true); band(ELV, ELVB, .03, 0x7ecbea, true);
+  { const e = ELV[ELV.length-1], [ex,ez] = UW(e[0],e[1]), [tx,tz] = UW(MUN.t[0],MUN.t[1]), f = gruppe(scene, ex, ez, -Math.atan2(tz,tx));   // fossen: x peker ut mot sjøen
+    flat(box(f, .5, 4.9, ELVB, 0x8fd3ee, .2, -2.4, 0));
+    [[-1.6,.9,3.6],[.3,.6,4.4],[1.7,.8,3]].forEach(k => flat(box(f, .12, k[2], k[1], 0xeaf7fd, .47, .05-k[2]/2, k[0])));                          // hvite striper i fossen
+    flat(box(f, .9, .1, ELVB, 0xeaf7fd, .1, .06, 0));                                                                                           // skum på kanten
+    [[1.3,-1.2,1.5],[1.7,.9,1.7],[2.9,-.3,1.2],[3.7,1.1,.8]].forEach(k => flat(cyl(f, k[2], k[2], .08, 8, 0xeaf7fd, k[0], -4.76, k[1])));       // skum der fossen treffer sjøen
+    [[-.6,-3.7,.9],[-.3,3.8,1.1],[1,4,.6]].forEach(k => { const m = legg(f, new THREE.DodecahedronGeometry(k[2],0), 0x9a9fa3, k[0], .3, k[1]); m.scale.y = .7; m.rotation.set(rand(),rand(),0); }); }   // steiner ved kanten
   for(let u=-125;u<=125;u+=21){ const h = R(11,19); fjell(u+R(-4,4), -70+R(-3,3), R(15,19), h, en([0x9a9d93,0xa9a79b,0x8f948a]), h>14.5); }   // fjellkjeden bak
   for(let u=-110;u<=110;u+=36) fjell(u+R(-6,6), -98, R(22,28), R(22,30), en([0x8f948a,0x9a9d93]), true);
   [[0,-1],[SKINNER.lengde,1]].forEach(k => { const e = paa(SKINNER,k[0]); fjell(SU+e.x+e.tx*8*k[1], SW+e.z+e.tz*8*k[1], 15, 11, 0x86b070); });                                                               // åsene med tunnelene

diff --git a/LES-MEG.md b/LES-MEG.md
@@ -12,7 +12,7 @@ Dette er selve nettsiden til Tavleloftet. Alt ligger i denne mappa, og ingenting
   innlogging (`elev/` og `lyslaget/logginn.html` sender til `basen.html`). Den gamle forsiden ligger fortsatt på `lyslaget/index.html`.
   Verden-ID er fortsatt `lyslaget`. Lagring: `lysbase-spill` og `lysbase-jegser-v1` (prefikset `lysbase-` står i `js/tavleloftet-elev.js`).
   Oppgavene i verdenen ligger i `lyslaget/basen-oppgaver.js`: Vennekroken (sosiale ferdigheter med roboten Bit, tre nivåer) og
-  «Jeg ser» (fem setninger til et myldrebilde, en voksen holder «Godkjenn» inne). Bilder og lyd: `lyslaget/basen/`.
+  «Jeg ser» (fem setninger til et myldrebilde, en voksen holder «Godkjenn» inne). Bilder og lyd: `lyslaget/basen/`. Ikonene i menyene (laget i Higgsfield 24.11.2026, gjennomsiktig bakgrunn) ligger i `lyslaget/basen/ikon/`; originalene og klippeskriptet ligger i `Skole\Robotmatte\basen\ikon\original`. Mangler et ikon, vises emoji-tegnet i stedet.
   Hør gjennom klippene på `lyslaget/lydsjekk-basen.html`. Kilden er `Skole\Robotmatte` (frittstående utgave uten innlogging). Se `maler/lyslagetverden/LES-MEG.md`.
 - `dinoparken2/` – Dinoparken med oppgavepakker (egne oppgaver per elev). Første pakke: lyder, venner og klosser. Se `dinoparken2/LES-MEG.md`
 - `dinodalen/` – Dinodalen: Dinoparken i ny drakt (elvedal, seks andre dinoer, samme oppgaver). Verden-ID `dinodalen`, lagring `dinodalen-…`. Kilden til kart og dinoer: `Skole\Dinodalen` (frittstående utgave uten innlogging)
